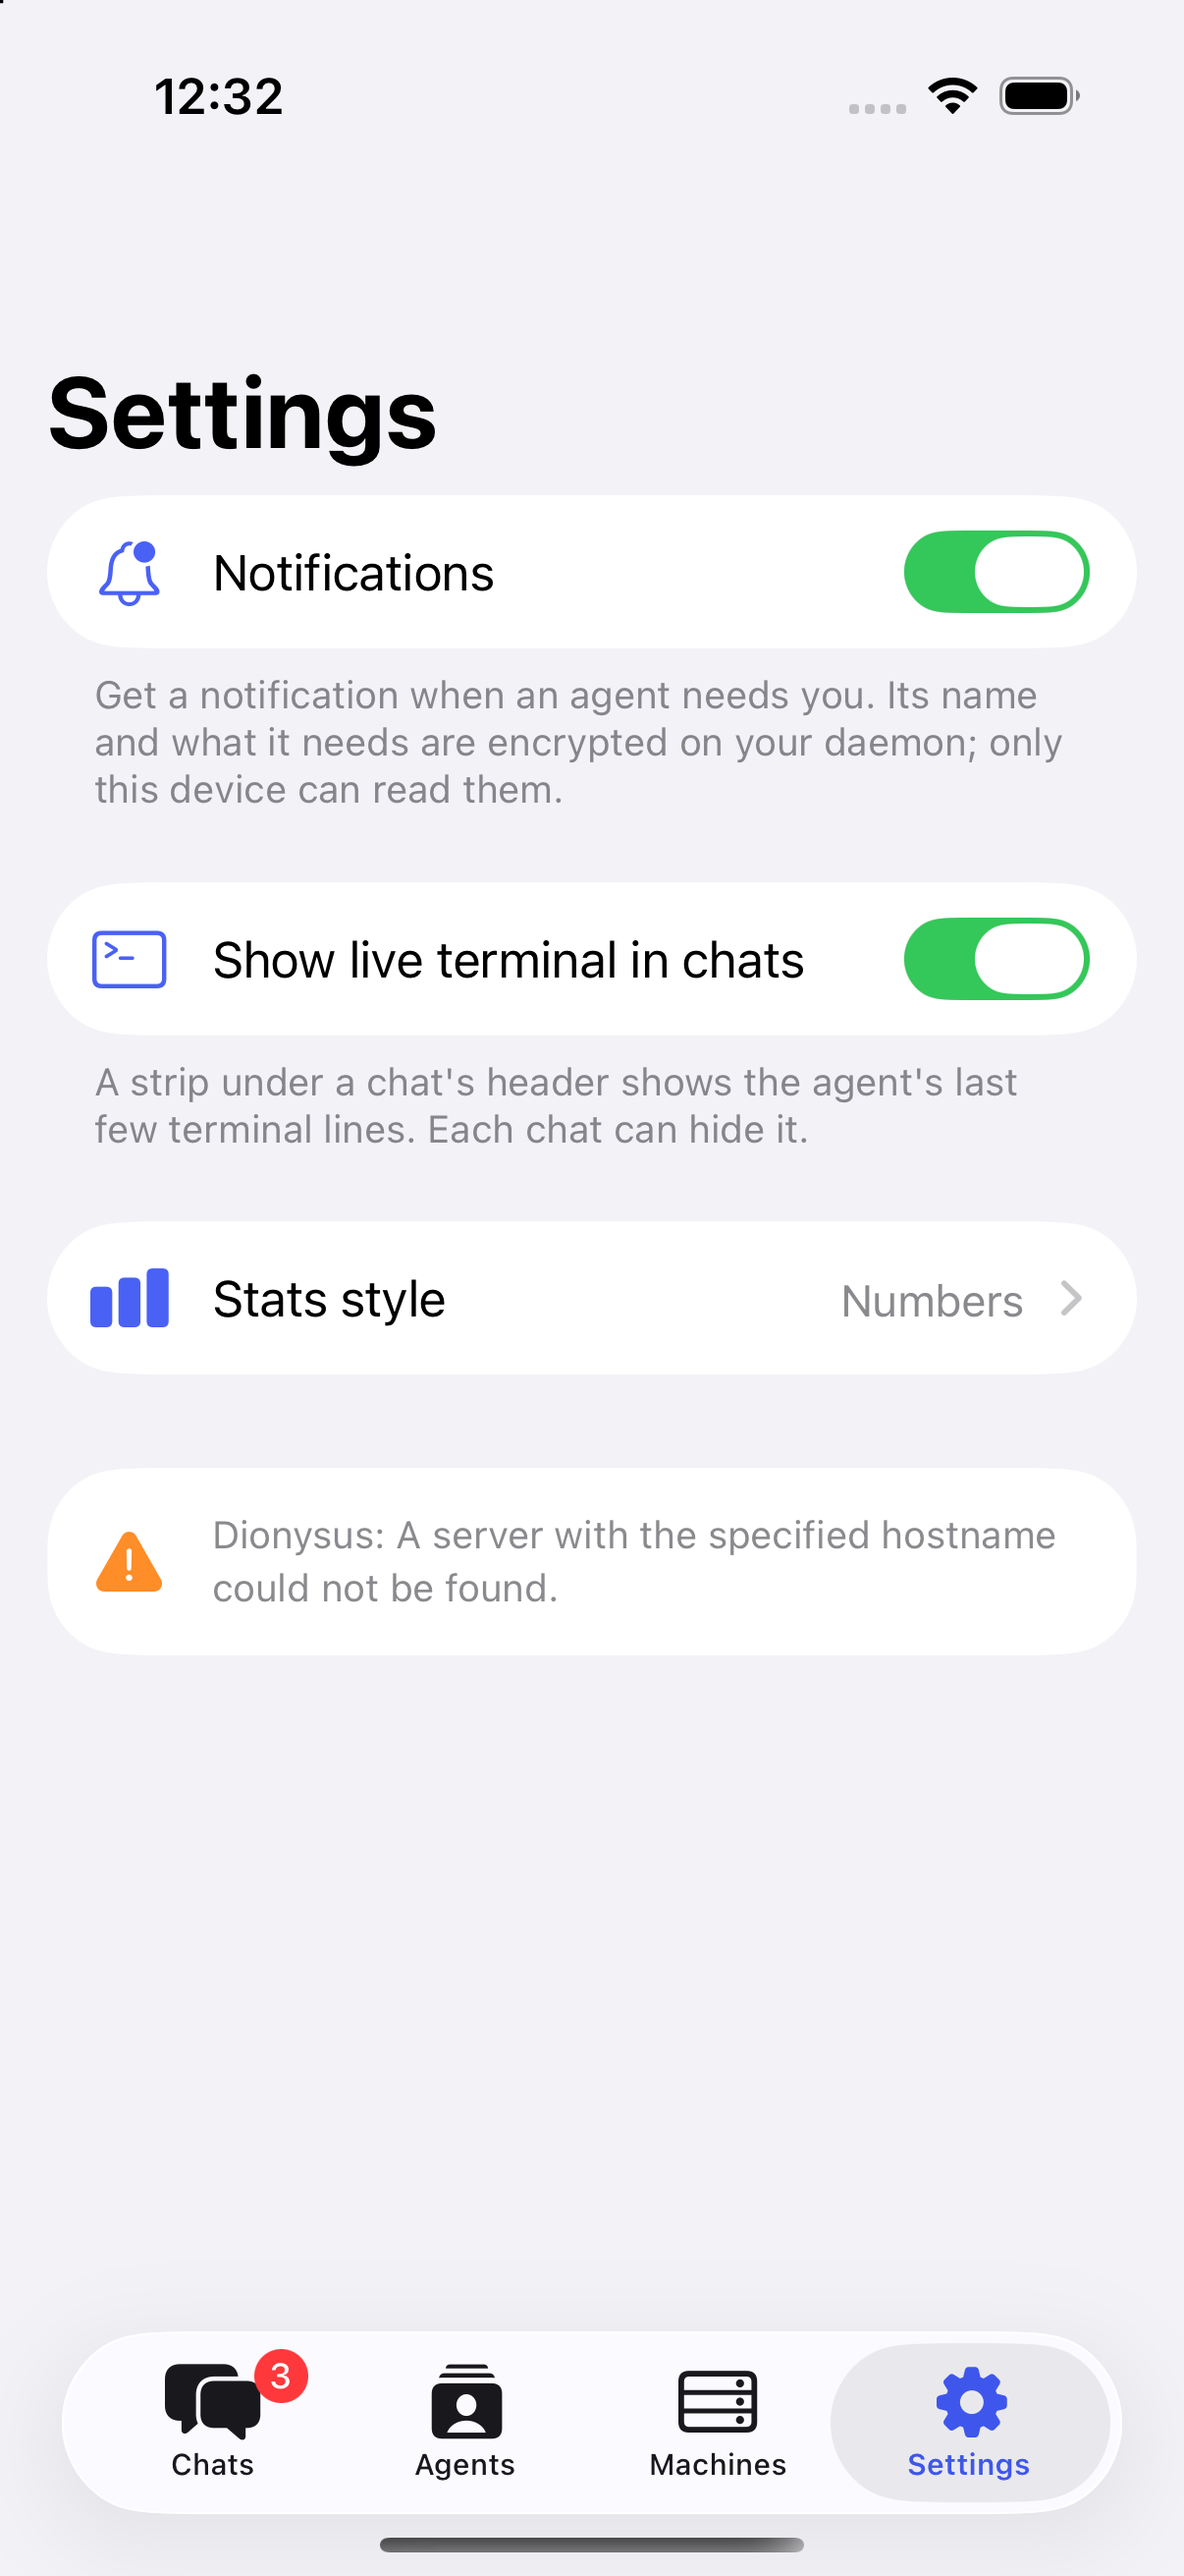
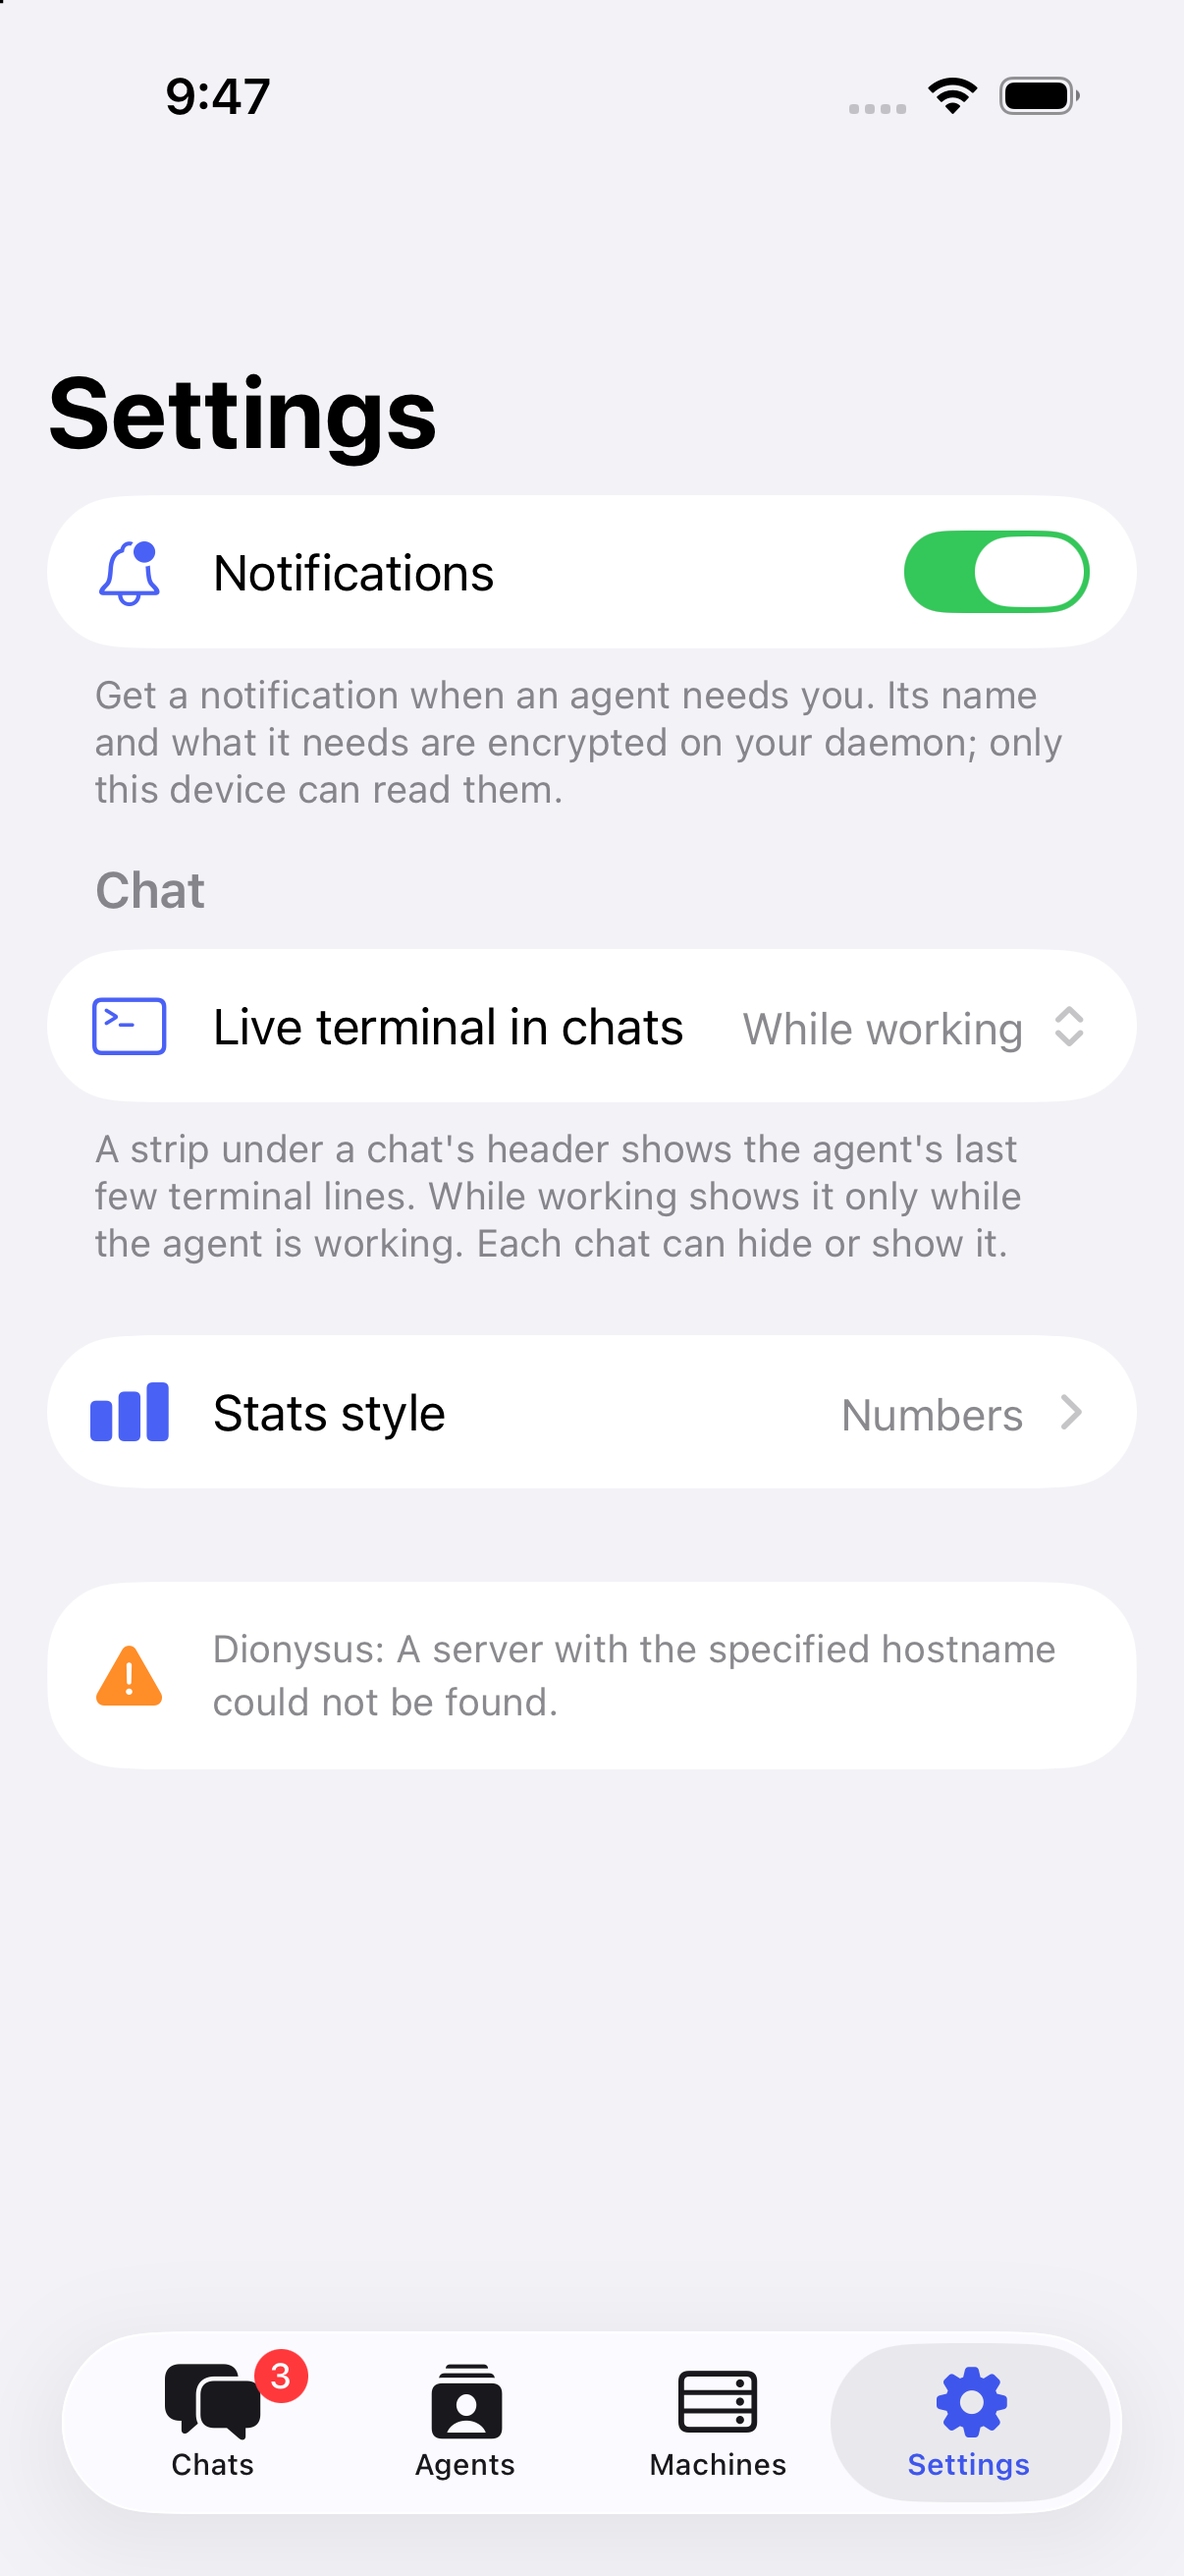
feat(ios): Settings > Chat > Live terminal in chats menu
Three-way menu (While working / Always / Never) under a new Chat header;
refreshes the iphone-settings screenshot. iOS only: the Mac app has no
chat strip.

Claude-Session: https://claude.ai/code/session_01RgyEq36T4zwMD6DrmKoj4K

diff --git a/ios/Leo/Settings/SettingsViewController.swift b/ios/Leo/Settings/SettingsViewController.swift
@@ -11,12 +11,14 @@ final class SettingsViewController: UIViewController {
     private enum Item: Hashable {
         case notifications
         case openSystemSettings
-        /// Chat: whether threads open with the live terminal strip shown.
+        /// Chat: when a thread shows its live terminal strip.
         case liveTerminal
         case statsStyle
         /// Identified by `PushProblem.id` (a daemon ID), never its text.
         case problem(PushProblem)
     }
+
+    private static let chatSection = 1
 
     private let store: StoreOf<PushNotifications>
     private let app: StoreOf<AppFeature>
@@ -24,7 +26,7 @@ final class SettingsViewController: UIViewController {
     private lazy var collectionView = UICollectionView(frame: .zero, collectionViewLayout: makeLayout())
     private var dataSource: UICollectionViewDiffableDataSource<Int, Item>!
     private var footer = ""
-    private var showsLiveTerminal = true
+    private var liveTerminalMode = LiveTerminalMode.whileWorking
 
     init(app: StoreOf<AppFeature>) {
         self.app = app
@@ -54,15 +56,16 @@ final class SettingsViewController: UIViewController {
             guard let self else { return }
             render(
                 isEnabled: store.isEnabled, authorization: store.authorization, problems: store.problems,
-                statsStyle: app.fleet.statsStyle, showsLiveTerminal: app.showsTerminalInChats
+                statsStyle: app.fleet.statsStyle, liveTerminalMode: app.liveTerminalMode
             )
         }
     }
 
     private func makeLayout() -> UICollectionViewLayout {
-        UICollectionViewCompositionalLayout { _, environment in
+        UICollectionViewCompositionalLayout { section, environment in
             var configuration = UICollectionLayoutListConfiguration(appearance: .insetGrouped)
             configuration.footerMode = .supplementary
+            if section == Self.chatSection { configuration.headerMode = .supplementary }
             return NSCollectionLayoutSection.list(using: configuration, layoutEnvironment: environment)
         }
     }
@@ -84,16 +87,17 @@ final class SettingsViewController: UIViewController {
                 }, for: .valueChanged)
                 cell.accessories = [.customView(configuration: .init(customView: toggle, placement: .trailing()))]
             case .liveTerminal:
-                content.text = String(localized: "Show live terminal in chats")
+                content.text = String(localized: "Live terminal in chats")
+                content.secondaryText = liveTerminalMode.title
+                content.prefersSideBySideTextAndSecondaryText = true
                 content.image = UIImage(systemName: "terminal")
-                let toggle = UISwitch()
-                toggle.isOn = showsLiveTerminal
-                toggle.accessibilityIdentifier = "settings.liveTerminal"
-                toggle.addAction(UIAction { [weak self, weak toggle] _ in
-                    guard let toggle else { return }
-                    self?.app.send(.showsTerminalInChatsToggled(toggle.isOn))
-                }, for: .valueChanged)
-                cell.accessories = [.customView(configuration: .init(customView: toggle, placement: .trailing()))]
+                cell.accessibilityIdentifier = "settings.liveTerminal"
+                let options = LiveTerminalMode.allCases.map { mode in
+                    UIAction(title: mode.title, state: mode == liveTerminalMode ? .on : .off) { [weak self] _ in
+                        self?.app.send(.liveTerminalModeChanged(mode))
+                    }
+                }
+                cell.accessories = [.popUpMenu(UIMenu(children: options))]
             case .openSystemSettings:
                 content.text = String(localized: "Open iOS Settings")
                 content.textProperties.color = .tintColor
@@ -121,31 +125,40 @@ final class SettingsViewController: UIViewController {
             var content = UIListContentConfiguration.footer()
             content.text = switch indexPath.section {
             case 0: self?.footer
-            case 1: String(localized: "A strip under a chat's header shows the agent's last few terminal lines. Each chat can hide it.")
+            case Self.chatSection: String(localized: "A strip under a chat's header shows the agent's last few terminal lines. While working shows it only while the agent is working. Each chat can hide or show it.")
             default: nil
             }
+            view.contentConfiguration = content
+        }
+        let headerRegistration = UICollectionView.SupplementaryRegistration<UICollectionViewListCell>(
+            elementKind: UICollectionView.elementKindSectionHeader
+        ) { view, _, _ in
+            var content = UIListContentConfiguration.header()
+            content.text = String(localized: "Chat")
             view.contentConfiguration = content
         }
         dataSource = UICollectionViewDiffableDataSource(collectionView: collectionView) { collectionView, indexPath, item in
             collectionView.dequeueConfiguredReusableCell(using: cell, for: indexPath, item: item)
         }
-        dataSource.supplementaryViewProvider = { collectionView, _, indexPath in
-            collectionView.dequeueConfiguredReusableSupplementary(using: footerRegistration, for: indexPath)
+        dataSource.supplementaryViewProvider = { collectionView, kind, indexPath in
+            collectionView.dequeueConfiguredReusableSupplementary(
+                using: kind == UICollectionView.elementKindSectionHeader ? headerRegistration : footerRegistration, for: indexPath
+            )
         }
         collectionView.delegate = self
     }
 
     private func render(
-        isEnabled: Bool, authorization: PushAuthorization?, problems: [PushProblem], statsStyle: LeoStatsStyle, showsLiveTerminal: Bool
+        isEnabled: Bool, authorization: PushAuthorization?, problems: [PushProblem], statsStyle: LeoStatsStyle, liveTerminalMode: LiveTerminalMode
     ) {
         self.statsStyle = statsStyle
-        self.showsLiveTerminal = showsLiveTerminal
+        self.liveTerminalMode = liveTerminalMode
         footer = Self.footer(isEnabled: isEnabled, authorization: authorization)
         var snapshot = NSDiffableDataSourceSnapshot<Int, Item>()
         snapshot.appendSections([0])
         snapshot.appendItems([.notifications])
         if isEnabled, authorization == .denied { snapshot.appendItems([.openSystemSettings]) }
-        snapshot.appendSections([1])
+        snapshot.appendSections([Self.chatSection])
         snapshot.appendItems([.liveTerminal])
         snapshot.appendSections([2])
         snapshot.appendItems([.statsStyle])

diff --git a/ios/LeoFeatures/Sources/LeoFeatures/Features/TerminalStrip.swift b/ios/LeoFeatures/Sources/LeoFeatures/Features/TerminalStrip.swift
@@ -112,3 +112,14 @@ extension DependencyValues {
         set { self[TerminalStripOutputKey.self] = newValue }
     }
 }
+
+extension LiveTerminalMode {
+    /// The Settings row's wording.
+    public var title: String {
+        switch self {
+        case .whileWorking: String(localized: "While working")
+        case .always: String(localized: "Always")
+        case .never: String(localized: "Never")
+        }
+    }
+}
